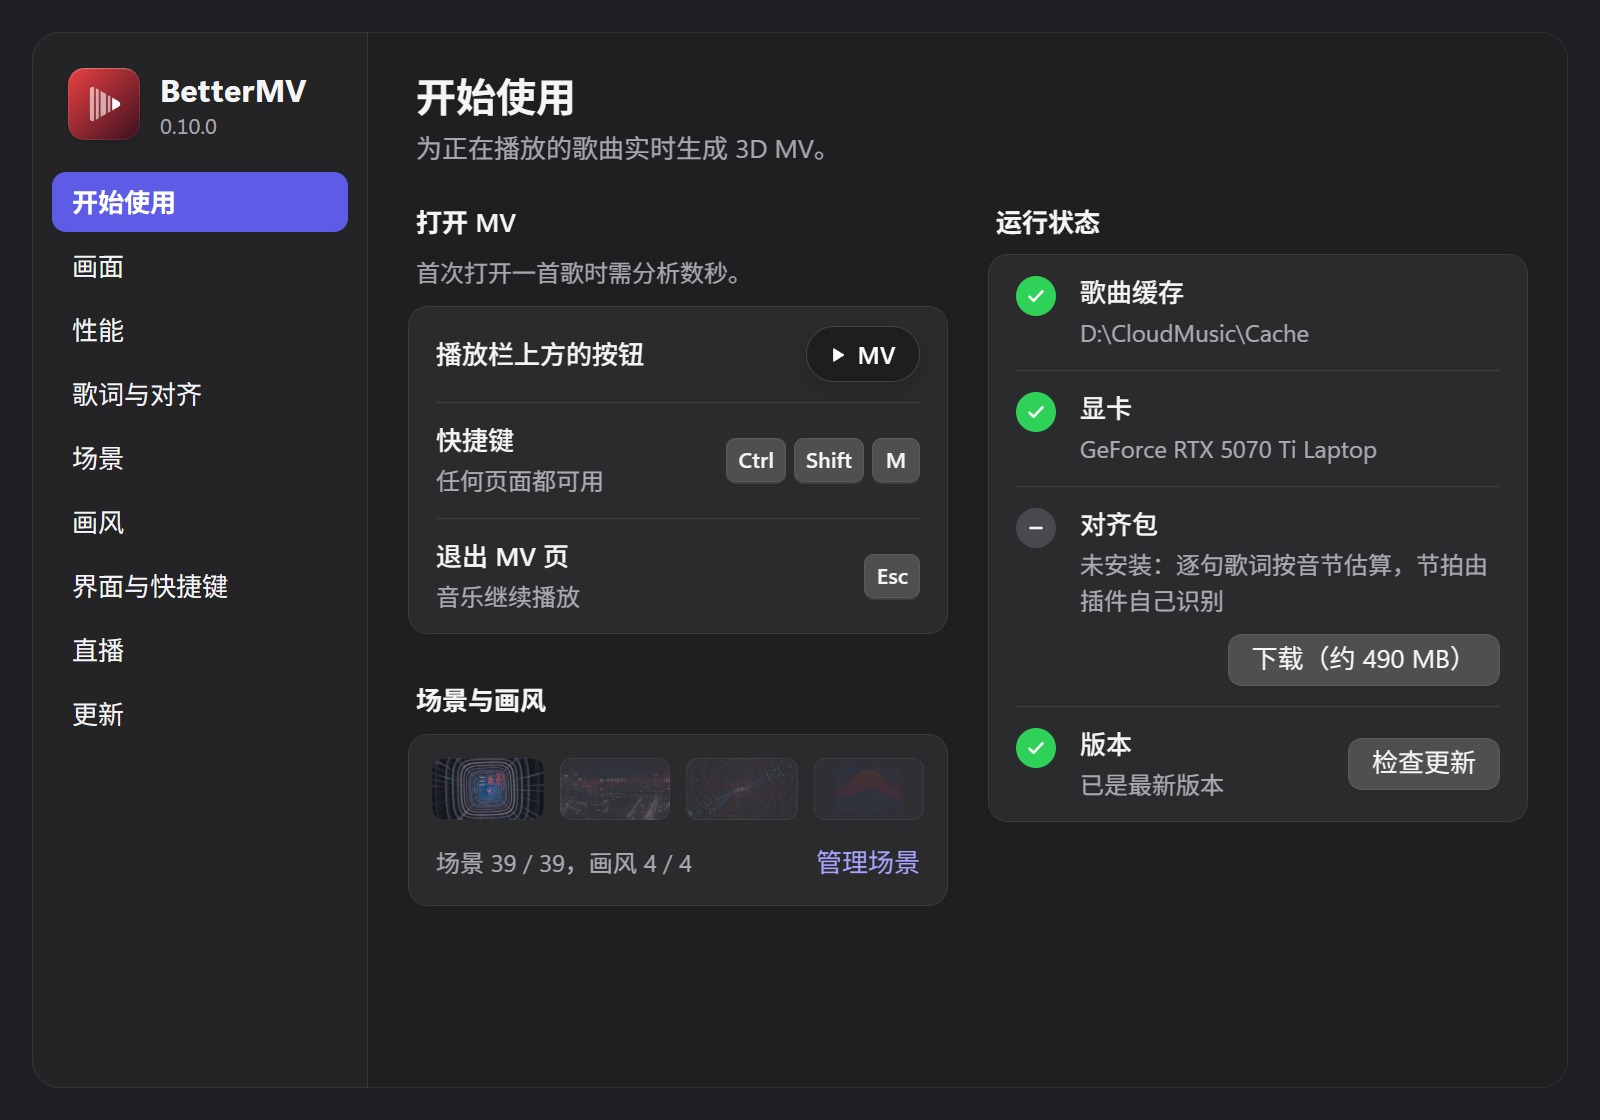
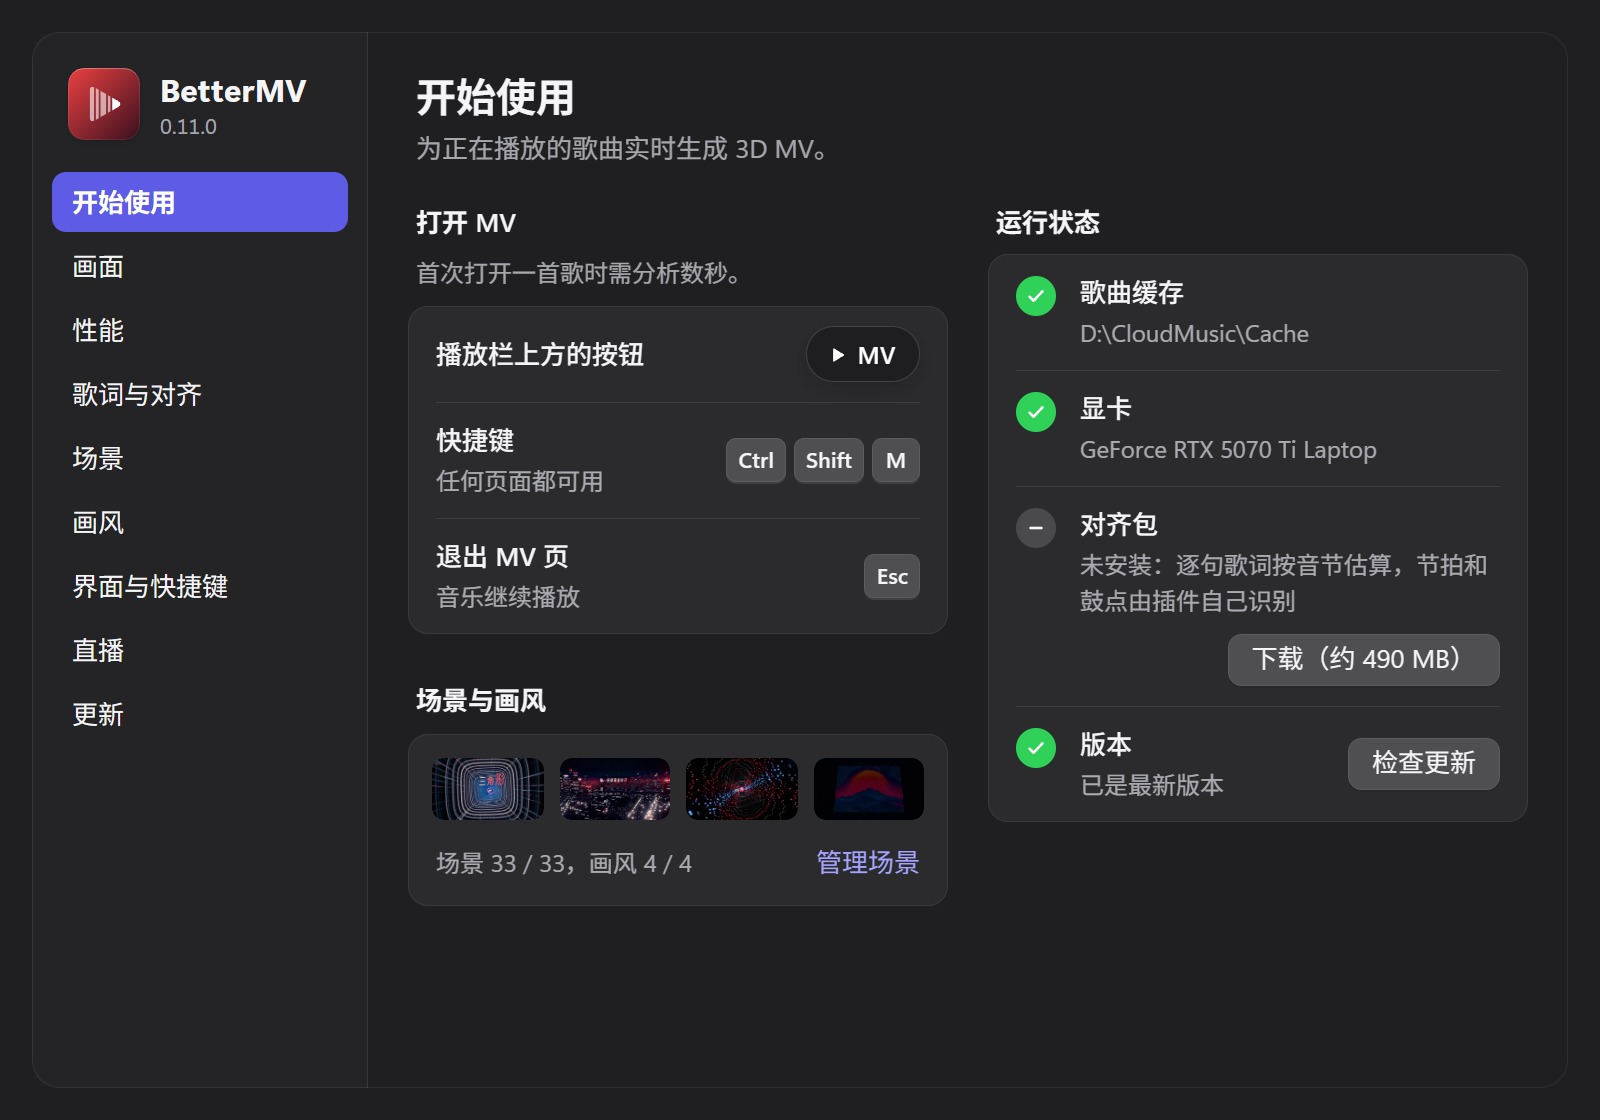
chore: 版本号升至 0.11.0，更新记录和 README
README：场景数改为 33，对齐包一节加上鼓点模型（手动安装、许可），设置页截图和设置动图重拍。

Changed region(s): [[0.2812, 0.6562, 0.5938, 0.75], [0.6562, 0.5312, 0.8125, 0.5625], [0.9062, 0.5, 0.9375, 0.5312]]

diff --git a/README.md b/README.md
@@ -37,7 +37,7 @@ BetterMV 是网易云音乐 PC 版的插件（基于 [BetterNCM](https://github.
 
 ### 先读懂整首歌
 
-识别速度、拍号，以及前奏、主歌、副歌、drop 等段落。镜头按段落切换，动作落在鼓点上，进度条也按段落分格。安装[对齐包](#对齐包逐字歌词与节拍)后，节拍改由本机的音频模型识别：切分节奏的歌、鼓打贝斯、音游曲和渐快的歌，也能踩准。
+识别速度、拍号，以及前奏、主歌、副歌、drop 等段落。镜头按段落切换，动作落在鼓点上，进度条也按段落分格。安装[对齐包](#对齐包逐字歌词与节拍)后，节拍和鼓点改由本机的音频模型识别：切分节奏的歌、鼓打贝斯、音游曲和渐快的歌，也能踩准。
 
 <p align="center"><img src="docs/images/ui-loading.gif" alt="首次打开一首歌：读取、解码、识别节拍、分析段落，然后开始播放" width="880"></p>
 
@@ -49,7 +49,7 @@ BetterMV 是网易云音乐 PC 版的插件（基于 [BetterNCM](https://github.
 
 ### 颜色只取自封面，每次播放都不同
 
-整支 MV 的配色都取自这首歌的封面，黑白封面生成黑白 MV。共 39 个场景、4 种风格、4 种画风，同一首歌每次播放重新编排。风格默认按曲风和音频自动选择，也可以手动指定。
+整支 MV 的配色都取自这首歌的封面，黑白封面生成黑白 MV。共 33 个场景、4 种风格、4 种画风，同一首歌每次播放重新编排。风格默认按曲风和音频自动选择，也可以手动指定。
 
 | 律动 | 抒情 |
 |:---:|:---:|
@@ -64,9 +64,9 @@ BetterMV 是网易云音乐 PC 版的插件（基于 [BetterNCM](https://github.
 | <img src="docs/images/look-riso.jpg" alt="孔版印刷" width="210"> | <img src="docs/images/look-hibit.jpg" alt="像素" width="210"> | <img src="docs/images/look-ascii.jpg" alt="字符" width="210"> | <img src="docs/images/look-vhs.jpg" alt="录像带" width="210"> |
 
 <details>
-<summary>全部 39 个场景</summary>
+<summary>全部 33 个场景</summary>
 
-<p align="center"><img src="docs/images/scenes.jpg" alt="39 个场景" width="880"></p>
+<p align="center"><img src="docs/images/scenes.jpg" alt="33 个场景" width="880"></p>
 
 </details>
 
@@ -153,6 +153,7 @@ BetterMV 是网易云音乐 PC 版的插件（基于 [BetterNCM](https://github.
 
 - **逐字歌词**：网易云多数歌只有逐句歌词，插件只能按音节估算每个字的时间。装了对齐包后，第一次播放这样的歌时按歌声对齐每个字，结果按歌保存。
 - **节拍**：每首歌第一次分析时，用音频模型识别节拍，再由插件整理。镜头和动作更多落在实际的鼓点上；切分节奏、鼓打贝斯、音游曲和渐快的歌提升明显。
+- **鼓点**：同时用一个鼓点模型识别底鼓、军鼓和镲，场景跟着鼓点的动作更少错位。模型约 2 MB，第一次用到时自动下载；已经分析过的歌只补识别鼓点，几秒内完成。
 
 旧版对齐包（只有逐字歌词）需要更新：设置中会显示“需要更新”，点击后只下载新增的部分（约 130 MB）。不装对齐包时，插件照常工作，逐字时间按音节估算，节拍由插件自己识别。
 
@@ -162,7 +163,7 @@ BetterMV 是网易云音乐 PC 版的插件（基于 [BetterNCM](https://github.
 1. 在[对齐包发布页](https://github.com/xiaoming6680/NCM-BetterMV/releases/tag/aligner-v2)下载 `aligner-runtime.zip`、`mms_fa.onnx.001`～`mms_fa.onnx.004`、`beat_this.onnx.001` 和 `beat_mel.npy`，共 7 个文件，约 490 MB。从旧版更新时，已有的 `mms_fa.onnx`（或它的四个分卷）不用重新下载。
 2. 打开 BetterNCM 的数据目录（插件文件夹的上一级，默认 `C:\betterncm`），进入 `BetterMV\aligner`，没有就新建这两层文件夹。
 3. 把 `aligner-runtime.zip` 解压到 `aligner` 中，覆盖已有文件。解压后 `align.py` 和 `python` 文件夹应直接位于 `aligner` 下，不要多出一层 `aligner-runtime` 文件夹。
-4. 在 `aligner` 中新建 `models` 文件夹（已有就直接用），放入下载的 `.onnx.00x` 文件和 `beat_mel.npy`。
+4. 在 `aligner` 中新建 `models` 文件夹（已有就直接用），放入下载的 `.onnx.00x` 文件和 `beat_mel.npy`。鼓点模型 `adtof_frame_rnn.onnx`（约 2 MB，同一发布页）也可以一并放入；不放时插件第一次用到会自动下载。
 5. 在 `aligner` 中新建文本文件 `installed.json`（已有就改写），内容为 `{"version":2}`。注意扩展名是 `.json`，不是 `.txt`。
 6. 重启网易云。设置“开始使用”中的“对齐包”显示“已安装”即完成。
 
@@ -172,7 +173,7 @@ BetterMV 是网易云音乐 PC 版的插件（基于 [BetterNCM](https://github.
 C:\betterncm\BetterMV\aligner\
 ├─ align.py、fa.py、beats.py、version.json、LICENSES.txt、installed.json
 ├─ python\
-└─ models\mms_fa.onnx.001～.004、beat_this.onnx.001、beat_mel.npy
+└─ models\mms_fa.onnx.001～.004、beat_this.onnx.001、beat_mel.npy、adtof_frame_rnn.onnx
 ```
 
 模型分卷在首次使用时于本机拼合为一个文件。
@@ -197,7 +198,7 @@ C:\betterncm\BetterMV\aligner\
 | 风格不合适 | “风格”改为律动、抒情、字或墨 |
 | 不喜欢某个场景或画风 | 在“场景”“画风”中关闭，点击“应用” |
 | 切歌时不想等待 | 开启“提前分析下一首” |
-| 逐字歌词更准、节拍更准 | 在“歌词与对齐”中下载对齐包（约 490 MB） |
+| 逐字歌词更准、节拍和鼓点更准 | 在“歌词与对齐”中下载对齐包（约 490 MB） |
 | 不显示播放栏上方的 MV 按钮 | 关闭“MV 按钮”，改用快捷键打开 |
 
 <p align="center"><img src="docs/images/settings.jpg" alt="BetterNCM 插件管理中的设置页" width="760"></p>
@@ -268,6 +269,6 @@ bun run pack     # 打包为 dist/ncm-better-mv.plugin
 
 ## 开源协议
 
-GPL-3.0-or-later。内置字体 Archivo、Bodoni Moda、Cormorant Garamond、得意黑（Smiley Sans）、霞鹜文楷 Lite 均使用 SIL Open Font License 1.1（`public/fonts/OFL.txt`），打包进插件的 three.js 使用 MIT 协议。可选对齐包中的 MMS-FA 模型来自 Meta，使用 CC BY-NC 4.0（不可商用）；节拍模型 Beat This! 来自 JKU Linz 计算感知研究所，使用 MIT 协议；其余组件见包内的 `LICENSES.txt`。
+GPL-3.0-or-later。内置字体 Archivo、Bodoni Moda、Cormorant Garamond、得意黑（Smiley Sans）、霞鹜文楷 Lite 均使用 SIL Open Font License 1.1（`public/fonts/OFL.txt`），打包进插件的 three.js 使用 MIT 协议。可选对齐包中的 MMS-FA 模型来自 Meta，使用 CC BY-NC 4.0（不可商用）；节拍模型 Beat This! 来自 JKU Linz 计算感知研究所，使用 MIT 协议；鼓点模型来自 ADTOF（M. Zehren、M. Alunno、P. Bientinesi），使用 CC BY-NC-SA 4.0（不可商用），署名和说明随模型放在 `models` 文件夹中；其余组件见包内的 `LICENSES.txt`。
 
 作者 [XIAOMING6680](https://github.com/xiaoming6680)。

diff --git a/CHANGELOG.md b/CHANGELOG.md
@@ -1,5 +1,24 @@
 # BetterMV 更新记录
 
+## 0.11.0
+
+- 每首歌只用一组场景：开场先选定约五六个场景，各段落只在其中轮换，第二次副歌、高潮沿用前面的场景，整首 MV 更像一支有固定场景的片子。加上片头、铺垫的隧道、高潮的推进和声道、浑天仪和片尾，一首歌平均用约 10 个场景，此前约 22 个，几乎每段都换一批新场景。场景出场仍在多首歌之间轮换，看得少的场景优先入选。
+- 去掉“字墙”“半调”“细分”“悬城”“调试视图”五个场景（字墙由叠字代替；悬城与门格回廊、三角太像），共 33 个场景。“示波器”只用于示波器音乐，不再出现在其他歌里，也不再列在设置的场景中。
+- 切镜恢复 0.10.0 的节奏：副歌和高潮每两小节换一次画面，铺垫冲进更响的段落时最后四小节每小节一切、最后两小节每拍换机位。drop 前的黑场、进入高潮的冲击帧、高潮里的负片、铺垫末尾随八分音符的明暗起伏和残影也都恢复。0.10.1 把切镜放慢一半后，节奏显得拖沓。
+- 鼓点更准（装了对齐包时）：对齐包新增一个鼓点识别模型（约 2 MB，第一次用到时自动下载），底鼓和军鼓认得更全，场景跟着鼓点的动作更少错位。已经分析过的歌只补识别鼓点，几秒内完成。没装对齐包时照旧由插件识别。
+- 节拍更稳：电子乐、音游曲这类按固定速度制作的歌，整首对齐到一条固定的节拍网格，不再在个别段落多出半拍，也不再在间奏前后慢慢偏开；半速段落仍按半速。
+- 音游曲显示谱面的 BPM：音乐百科曲风为节奏游戏音乐的歌，此前常只显示一半（225 的歌显示 113）。
+- 隧道冲进更响的段落时，镜头扭转加速后一路推进，穿过去进入下一个场景，不再冲向封面；冲进 drop 时也不再先黑场。
+- 浑天仪推进接 drop 时，镜头一路穿过浑天仪中心飞进 drop 的画面（推进转场，前后各半拍），不再硬切；推进前也不再停顿。
+- 画布作为一首歌的最后一个镜头时，镜头升起的同时把笔刷没画到的地方补上封面的颜色，结尾呈现整张封面（墨风格只补封面的深色部分，浅处留白）。此前只画了约八成就结束。
+- 片头的圆环上不再立着一根标示当前位置的细线，改为当前位置那根柱子亮起，随底鼓变亮。
+- 每首歌结束时画面渐隐：在声音结束前约 3 秒开始，歌词和片尾署名一起淡出；结尾有静音的歌在声音停止时淡完。
+- 万花筒的歌词改为沿螺旋向前方延伸：一句排成一条螺旋臂，正在唱的词停在画面上方，唱过的从左侧迎面飞来再淡出，还没唱的在右侧向画面深处延伸；翻译是下方镜像的一条臂。此前每句从中心慢慢长大，常常唱完了还小得看不清，或放大后压在下一句上。
+- 歌词翻译改为跟着原文的演唱进度逐字出现，略快于原文，原文唱到最后一个词时整句译文正好出全。此前在句子开头一秒内整句打完，比歌声快太多。
+- 修复上一句歌词和下一句叠在一起：上一句改为在下一句开唱前约 0.3 秒开始让位，新的第一个词亮起时旧句已基本退开。
+- 画面上随鼓点出现的三角和圆不再固定在几个位置，而在画面中部的一片范围内随机出现；军鼓的一对三角仍左右对称。
+- “提前分析下一首”也用于心动模式和私人 FM：按播放列表里的下一首提前准备。随机播放和单曲循环不变。
+
 ## 0.10.1
 
 - 切镜和换场景放慢一半左右：副歌和高潮里一个场景停留约 8 秒，主歌、间奏等约 12 秒（抒情和墨风格约 10 到 14 秒），按歌曲速度取 2、4 或 8 小节，切点仍落在鼓点上。此前固定 2 或 4 小节，快歌的副歌每三四秒就换一个场景。只有铺垫冲进副歌或高潮时才加快剪辑，且只在最后两小节、只换机位不换场景；此前凡是后面接更响段落的主歌、间奏，最后两小节都每拍一切。连续几段同名、响度相近的副歌或高潮按一段处理，不再在每段开头重新换场景、换画风、出段落标题、做高潮的入场效果。
